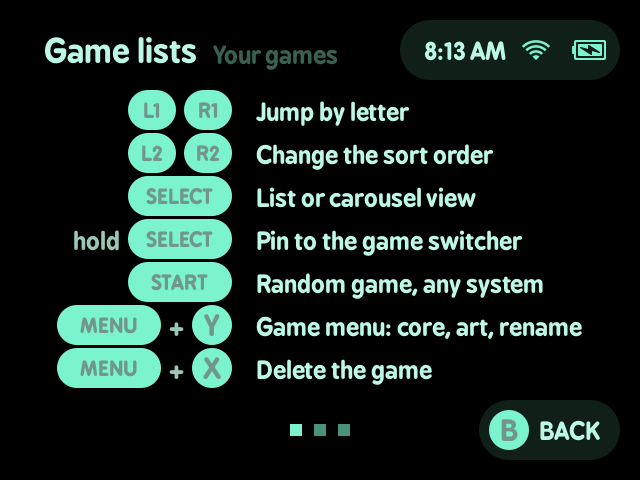
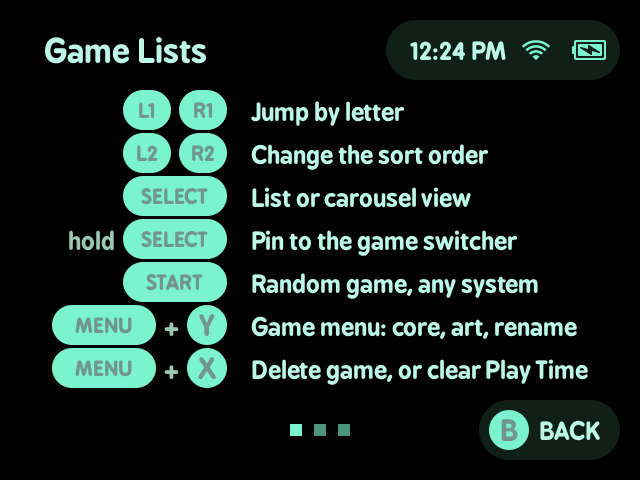
Sounds and music in every tool, Controls headers, RetroAchievements layout
- Clock, Controls, Box Art, RetroAchievements and Wi-Fi play the menu
  sounds and the menus' music. A tool turns its sounds on with
  SFX_forInput(1), and PAD_poll clicks for moving, choosing and going back
- Controls' pages are titled Game Lists, Other and Keyboard, nothing beside
- RetroAchievements: a title beside the time and battery, its rows below
  them at full width so the signed-in name has room, the hints under them
- The Play Time total stays up a little longer as it opens
- Clock opens from the settings' Clock row, so it's off the Tools list too

Changed region(s): [[0.0625, 0.1875, 0.9375, 0.8125], [0.2188, 0.0625, 0.5312, 0.1562], [0.5938, 0.0312, 0.7812, 0.1875]]

diff --git a/workspace/all/minui/minui.c b/workspace/all/minui/minui.c
@@ -24,6 +24,7 @@
 
 #define TOOLS_DIR SDCARD_PATH "/Tools/" PLATFORM
 #define PLAY_TIME_NAME "Play Time" // Most Played, as it's listed in Tools
+#define PLAY_TIME_FLASH_MS 2200 // the total as Play Time opens
 #include "keyboard.h"
 #include "bgm.h"
 
@@ -1457,12 +1458,9 @@ static Array* getEntries(char* path){
 	else addEntries(entries, path); // just a subfolder
 	
 	if (exactMatch(path, TOOLS_DIR)) {
-		for (int i=0; i<entries->count; i++) { // the Wi-Fi tool opens from the settings' Wi-Fi row instead
+		for (int i=entries->count-1; i>=0; i--) { // Wi-Fi and Clock open from their rows in the settings instead
 			Entry* entry = entries->items[i];
-			if (suffixMatch("/Wi-Fi.pak", entry->path)) {
-				Entry_free(Array_remove(entries, i));
-				break;
-			}
+			if (suffixMatch("/Wi-Fi.pak", entry->path) || suffixMatch("/Clock.pak", entry->path)) Entry_free(Array_remove(entries, i));
 		}
 		Entry* play_time = Entry_new(FAUX_MOSTPLAYED_PATH, ENTRY_DIR);
 		free(play_time->name);
@@ -1888,6 +1886,7 @@ static void closeDirectory(void) {
 }
 
 static void showFlash(char* text, int big);
+static int flash_ms; // (defined with the popups below)
 static void Entry_open(Entry* self) {
 	recent_alias = self->name;  // yiiikes
 	if (self->type==ENTRY_ROM) {
@@ -1917,6 +1916,7 @@ static void Entry_open(Entry* self) {
 				formatPlayTime(total_seconds, played);
 				snprintf(line, sizeof(line), "%s played in all", played);
 				showFlash(line, 0);
+				flash_ms = PLAY_TIME_FLASH_MS; // a number to read, so it stays a little longer
 			}
 		}
 	}
@@ -3482,6 +3482,7 @@ static int marqueeOffset(char* key, int overflow, uint32_t now) {
 #define FLASH_FADE_MS 150 // its last moments, fading out
 static char flash_text[64];
 static int flash_big = 0;
+static int flash_ms = 0; // how long this one stays, 0 for the usual
 static uint32_t flash_until = 0;
 static TTF_Font* flash_font = NULL; // opened on first use
 static int flash_gpu = 0; // drawn as a GPU texture this frame (eg. over the carousel)
@@ -3491,11 +3492,12 @@ static int flash_texture_theme = -1;
 static void showFlash(char* text, int big) {
 	snprintf(flash_text, sizeof(flash_text), "%s", text);
 	flash_big = big;
+	flash_ms = 0;
 	flash_until = FLASH_WAITING;
 }
 static void blitFlash(SDL_Surface* screen) {
 	if (!flash_until) return;
-	if (flash_until==FLASH_WAITING) flash_until = SDL_GetTicks() + (flash_big ? FLASH_LETTER_MS : FLASH_TEXT_MS);
+	if (flash_until==FLASH_WAITING) flash_until = SDL_GetTicks() + (flash_ms ? flash_ms : (flash_big ? FLASH_LETTER_MS : FLASH_TEXT_MS));
 	int left = (int32_t)(flash_until - SDL_GetTicks());
 	int alpha = left>=FLASH_FADE_MS ? 255 : (left>0 ? 255 * left / FLASH_FADE_MS : 0);
 	if (flash_big && !flash_font) flash_font = TTF_OpenFont(FONT_PATH, SCALE1(FONT_LARGE*3));

diff --git a/workspace/all/rasync/rasync.c b/workspace/all/rasync/rasync.c
@@ -15,6 +15,7 @@
 
 #include "defines.h"
 #include "api.h"
+#include "bgm.h"
 #include "utils.h"
 #include "ra_cache.h"
 #include "ra_http.h"
@@ -518,6 +519,8 @@ int main(int argc , char* argv[]) {
 	PAD_init();
 	PWR_init();
 	InitSettings();
+	SFX_forInput(1); // clicks for moving, choosing and going back
+	BGM_start(); // the menus' music, when it's on
 	
 	enum { ROW_ACCOUNT, ROW_SYNC, ROW_HARDCORE, ROW_COUNT };
 	int selected = 0;
@@ -578,7 +581,12 @@ int main(int argc , char* argv[]) {
 		
 		if (dirty) {
 			GFX_clear(screen);
-			int ow = GFX_blitHardwareGroup(screen, show_setting);
+			GFX_blitHardwareGroup(screen, show_setting);
+			// a title beside the time and battery, the rows below them at full width so a long name has room
+			SDL_Surface* title = TTF_RenderUTF8_Blended(font.large, "RetroAchievements", COLOR_WHITE);
+			SDL_BlitSurface(title, NULL, screen, &(SDL_Rect){ SCALE1(PADDING + BUTTON_PADDING), SCALE1(PADDING) + (SCALE1(PILL_SIZE) - title->h)/2 });
+			SDL_FreeSurface(title);
+			#define ROWS_TOP (PADDING + PILL_SIZE + 6)
 			
 			for (int i=0; i<ROW_COUNT; i++) {
 				char name[192], value[64] = "";
@@ -597,9 +605,8 @@ int main(int argc , char* argv[]) {
 					snprintf(name, sizeof(name), "Hardcore mode");
 					snprintf(value, sizeof(value), exists(RA_HARDCORE_PATH) ? "On" : "Off");
 				}
-				int y = SCALE1(PADDING + i*PILL_SIZE);
+				int y = SCALE1(ROWS_TOP + i*PILL_SIZE);
 				int width = screen->w - SCALE1(PADDING*2);
-				if (i==0) width -= ow;
 				int is_selected = i==selected;
 				if (is_selected) GFX_blitPill(ASSET_WHITE_PILL, screen, &(SDL_Rect){ SCALE1(PADDING), y, width, SCALE1(PILL_SIZE) });
 				
@@ -619,9 +626,9 @@ int main(int argc , char* argv[]) {
 			
 			// what offline play depends on, so it's clear why syncing matters
 			char* hint;
-			if (selected==ROW_HARDCORE) hint = "Unlocks count as hardcore on your profile\nGames with achievements start fresh, no save states\n(loading one switches that session to softcore)";
+			if (selected==ROW_HARDCORE) hint = "Unlocks count as hardcore: no save states or resume\n(loading one switches that session to softcore)";
 			else hint = signed_in ? "Syncing caches every game's achievements and badges\nso they work without Wi-Fi" : "Sign in with the on-screen keyboard\n(Wi-Fi needs to be on)";
-			int y = SCALE1(PADDING + ROW_COUNT*PILL_SIZE + PADDING);
+			int y = SCALE1(ROWS_TOP + ROW_COUNT*PILL_SIZE + 4);
 			GFX_blitMessage(font.small, hint, screen, &(SDL_Rect){ 0, y, screen->w, screen->h - y - SCALE1(PADDING+PILL_SIZE) });
 			
 			if (show_setting && !GetHDMI()) GFX_blitHardwareHints(screen, show_setting);
@@ -633,6 +640,8 @@ int main(int argc , char* argv[]) {
 		else GFX_sync();
 	}
 	
+	BGM_quit();
+	SFX_quit();
 	QuitSettings();
 	PWR_quit();
 	PAD_quit();

diff --git a/workspace/all/controls/controls.c b/workspace/all/controls/controls.c
@@ -6,6 +6,7 @@
 #include <msettings.h>
 #include "defines.h"
 #include "api.h"
+#include "bgm.h"
 #include "utils.h"
 
 static SDL_Surface* screen;
@@ -20,7 +21,7 @@ typedef struct Section {
 } Section;
 
 static Section sections[] = {
-	{ "Game lists", "Your games", {
+	{ "Game Lists", NULL, {
 		{ "L1 R1",			"Jump by letter" },
 		{ "L2 R2",			"Change the sort order" },
 		{ "SELECT",			"List or carousel view" },
@@ -29,14 +30,14 @@ static Section sections[] = {
 		{ "MENU + Y",		"Game menu: core, art, rename" },
 		{ "MENU + X",		"Delete game, or clear Play Time" },
 	}},
-	{ "Everywhere", "In games too", {
+	{ "Other", NULL, {
 		{ "MENU",			"Settings, or pause a game" },
 		{ "MENU",			"Hide an achievement popup" },
 		{ "hold MENU",		"Game switcher" },
 		{ "MENU + VOL",		"Brightness" },
 		{ "hold POWER",		"Power off" },
 	}},
-	{ "Typing", "On the keyboard", {
+	{ "Keyboard", NULL, {
 		{ "X",				"Shift, for one capital letter" },
 		{ "Y",				"Numbers and symbols" },
 		{ "L1 R1",			"Move the cursor" },
@@ -167,6 +168,8 @@ int main(int argc , char* argv[]) {
 	PAD_init();
 	PWR_init();
 	InitSettings();
+	SFX_forInput(1); // clicks for moving, choosing and going back
+	BGM_start(); // the menus' music, when it's on
 
 	int page = 0;
 	int dirty = 1;
@@ -178,12 +181,10 @@ int main(int argc , char* argv[]) {
 		if (PAD_justPressed(BTN_B)) break;
 		else if (PAD_justRepeated(BTN_LEFT) || PAD_justRepeated(BTN_L1)) {
 			page = (page + SECTION_COUNT - 1) % SECTION_COUNT;
-			SFX_play(SFX_TICK);
 			dirty = 1;
 		}
 		else if (PAD_justRepeated(BTN_RIGHT) || PAD_justRepeated(BTN_R1)) {
 			page = (page + 1) % SECTION_COUNT;
-			SFX_play(SFX_TICK);
 			dirty = 1;
 		}
 
@@ -201,6 +202,8 @@ int main(int argc , char* argv[]) {
 		else GFX_sync();
 	}
 
+	BGM_quit();
+	SFX_quit();
 	QuitSettings();
 	PWR_quit();
 	PAD_quit();

diff --git a/workspace/all/common/api.h b/workspace/all/common/api.h
@@ -285,7 +285,12 @@ extern PAD_Context pad;
 
 #define PAD_init PLAT_initInput
 #define PAD_quit PLAT_quitInput
-#define PAD_poll PLAT_pollInput
+// the tools' sounds: once a tool calls SFX_forInput(1), every PAD_poll clicks for moving, confirming and going back
+// (inline so it reads input the way the caller does)
+void SFX_forInput(int enabled); // also warms the sounds up, so the first plays without a wait
+void SFX_afterInput(void);
+static inline void PAD_pollWithSounds(void); // below, after PLAT_pollInput
+#define PAD_poll PAD_pollWithSounds
 #define PAD_wake PLAT_shouldWake
 
 void PAD_setAnalog(int neg, int pos, int value, int repeat_at); // internal
@@ -362,6 +367,10 @@ enum {
 void PLAT_initInput(void);
 void PLAT_quitInput(void);
 void PLAT_pollInput(void);
+static inline void PAD_pollWithSounds(void) {
+	PLAT_pollInput();
+	SFX_afterInput();
+}
 int PLAT_shouldWake(void);
 
 SDL_Surface* PLAT_initVideo(void);

diff --git a/workspace/all/common/api.c b/workspace/all/common/api.c
@@ -1579,6 +1579,18 @@ void SFX_warmUp(void) {
 	if (pthread_create(&sfx_thread, NULL, SFX_warmThread, NULL)==0) sfx_thread_started = 1;
 	else sfx_warming = 0;
 }
+static int sfx_for_input = 0;
+void SFX_forInput(int enabled) {
+	sfx_for_input = enabled;
+	if (enabled) SFX_warmUp();
+}
+void SFX_afterInput(void) {
+	if (!sfx_for_input) return;
+	if (PAD_justRepeated(BTN_UP) || PAD_justRepeated(BTN_DOWN) || PAD_justRepeated(BTN_LEFT) || PAD_justRepeated(BTN_RIGHT)
+		|| PAD_justRepeated(BTN_L1) || PAD_justRepeated(BTN_R1)) SFX_play(SFX_TICK);
+	else if (PAD_justPressed(BTN_A)) SFX_play(SFX_CONFIRM);
+	else if (PAD_justPressed(BTN_B)) SFX_play(SFX_BACK);
+}
 void SFX_play(int sound) {
 	if (sound<0 || sound>=SFX_COUNT) return;
 	if (sound!=SFX_ACHIEVEMENT && !SFX_menuSoundsEnabled()) return;

diff --git a/workspace/all/boxart/boxart.c b/workspace/all/boxart/boxart.c
@@ -15,6 +15,7 @@
 
 #include "defines.h"
 #include "api.h"
+#include "bgm.h"
 #include "utils.h"
 #include "ra_http.h"
 #include "ra_cache.h" // RA_CA_PATH
@@ -861,9 +862,13 @@ int main(int argc , char* argv[]) {
 	PAD_init();
 	PWR_init();
 	InitSettings();
+	SFX_forInput(1); // clicks for moving, choosing and going back
+	BGM_start(); // the menus' music, when it's on
 
 	if (argc>1) { // one game, from the launcher's game menu
 		findOne(argv[1]);
+		BGM_quit();
+		SFX_quit();
 		QuitSettings();
 		PWR_quit();
 		PAD_quit();
@@ -953,6 +958,8 @@ int main(int argc , char* argv[]) {
 	}
 
 	free(scratch);
+	BGM_quit();
+	SFX_quit();
 	QuitSettings();
 	PWR_quit();
 	PAD_quit();

diff --git a/workspace/all/clock/clock.c b/workspace/all/clock/clock.c
@@ -7,6 +7,7 @@
 
 #include "defines.h"
 #include "api.h"
+#include "bgm.h"
 #include "utils.h"
 
 enum {
@@ -26,6 +27,8 @@ int main(int argc , char* argv[]) {
 	PAD_init();
 	PWR_init();
 	InitSettings();
+	SFX_forInput(1); // clicks for moving, choosing and going back
+	BGM_start(); // the menus' music, when it's on
 	
 	// TODO: make use of SCALE1()
 	SDL_Surface* digits = SDL_CreateRGBSurface(SDL_SWSURFACE, SCALE2(120,16), FIXED_DEPTH,RGBA_MASK_AUTO);
@@ -311,6 +314,8 @@ int main(int argc , char* argv[]) {
 	
 	SDL_FreeSurface(digits);
 	
+	BGM_quit();
+	SFX_quit();
 	QuitSettings();
 	PWR_quit();
 	PAD_quit();

diff --git a/workspace/all/wifi/wifi.c b/workspace/all/wifi/wifi.c
@@ -9,6 +9,7 @@
 
 #include "defines.h"
 #include "api.h"
+#include "bgm.h"
 #include "utils.h"
 #include "keyboard.h"
 
@@ -204,6 +205,8 @@ int main(int argc , char* argv[]) {
 	PAD_init();
 	PWR_init();
 	InitSettings();
+	SFX_forInput(1); // clicks for moving, choosing and going back
+	BGM_start(); // the menus' music, when it's on
 
 	readCreds();
 	int was_on = exists(FLAG_PATH);
@@ -356,6 +359,8 @@ int main(int argc , char* argv[]) {
 		system("wifi.sh down");
 	}
 
+	BGM_quit();
+	SFX_quit();
 	QuitSettings();
 	PWR_quit();
 	PAD_quit();
